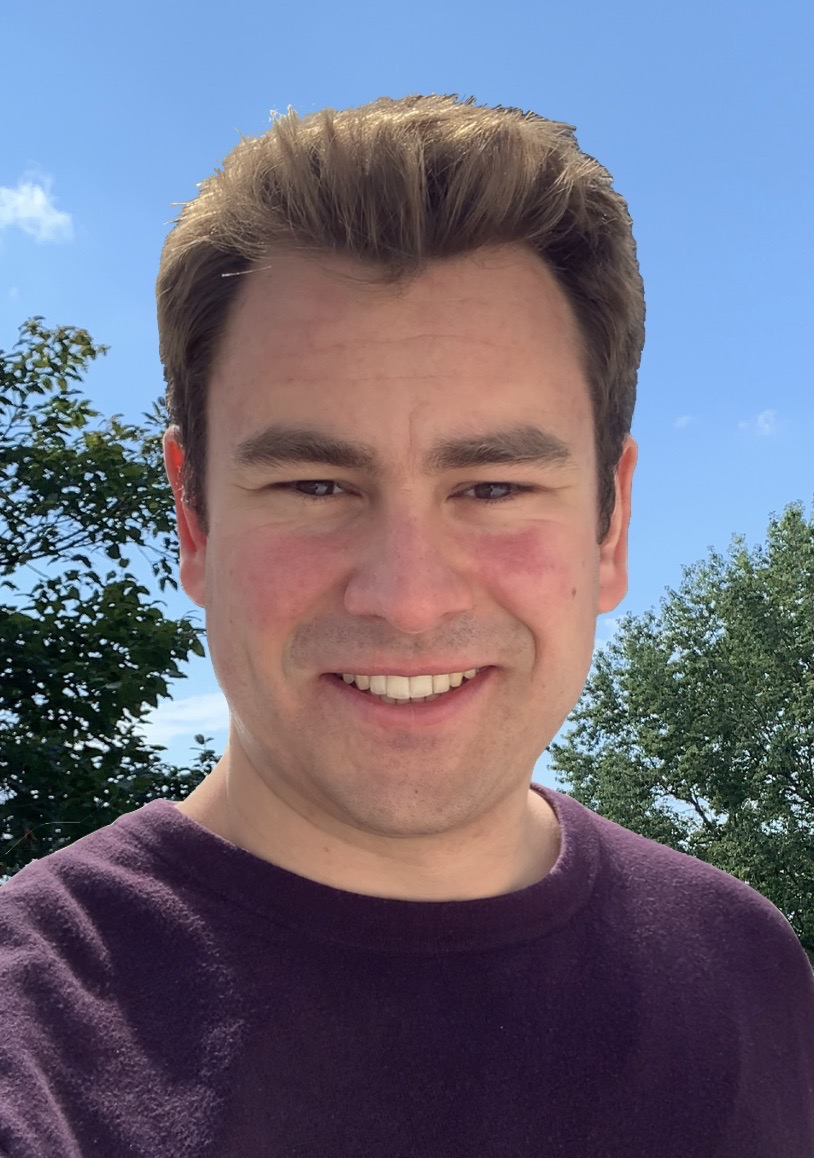
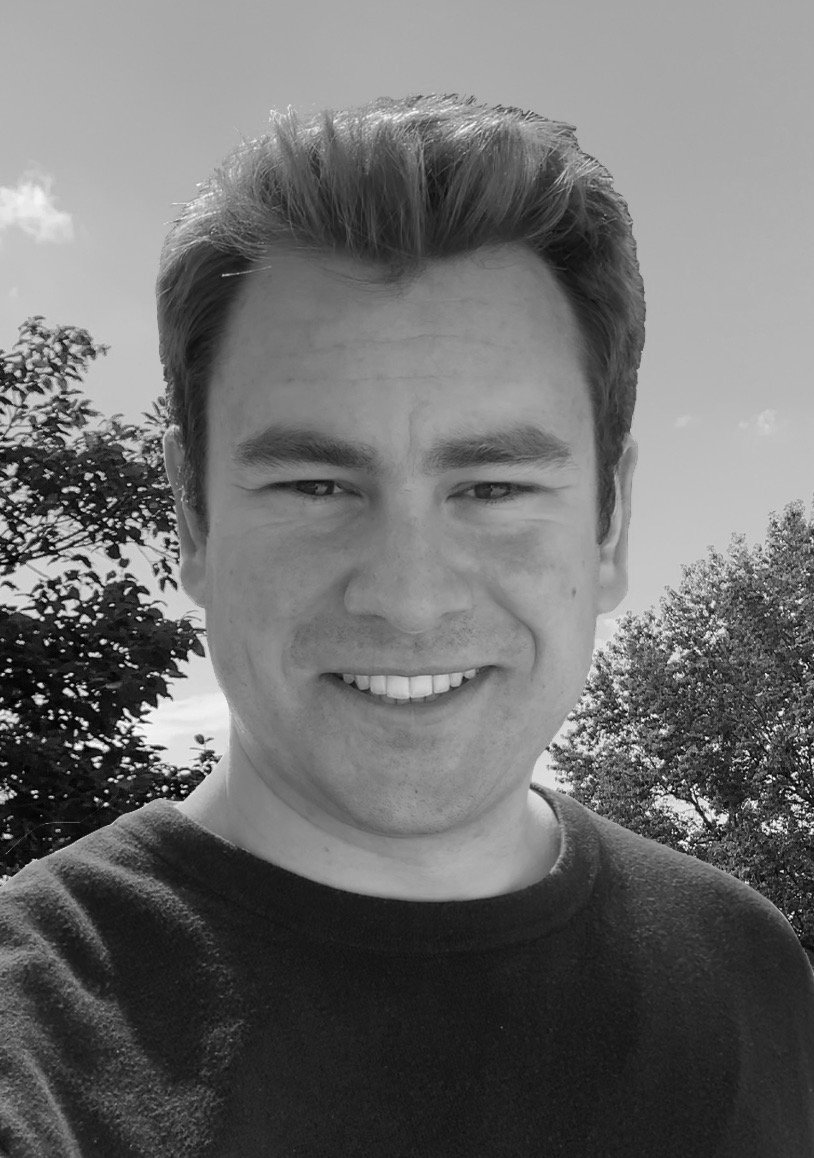
image

diff --git a/index.html b/index.html
@@ -58,7 +58,7 @@
   <header class="w3-container w3-padding-32 w3-center w3-black" id="home">
     <h1 class="w3-jumbo"><span class="w3-hide-small">Ralf Konietzka</h1>
     <h4>Master Student at the University of Munich</h4>
-    <img src="/images/background.png" alt="backfground" class="w3-image" width="992" height="1108">
+    <img src="/images/pictureB.png" alt="background" class="w3-image" width="992" height="1108">
   </header>
 
   <!-- About Section -->
@@ -72,7 +72,7 @@
   </div>
   
   <!-- Portfolio Section -->
-  <div class="w3-padding-64 w3-content" id="photos">
+  <div class="w3-padding-64 w3-content" id="projects">
     <h1 class="w3-text-light-grey">Projects</h1>
 
 <div class="w3-content w3-justify w3-text-grey" id="contact">
